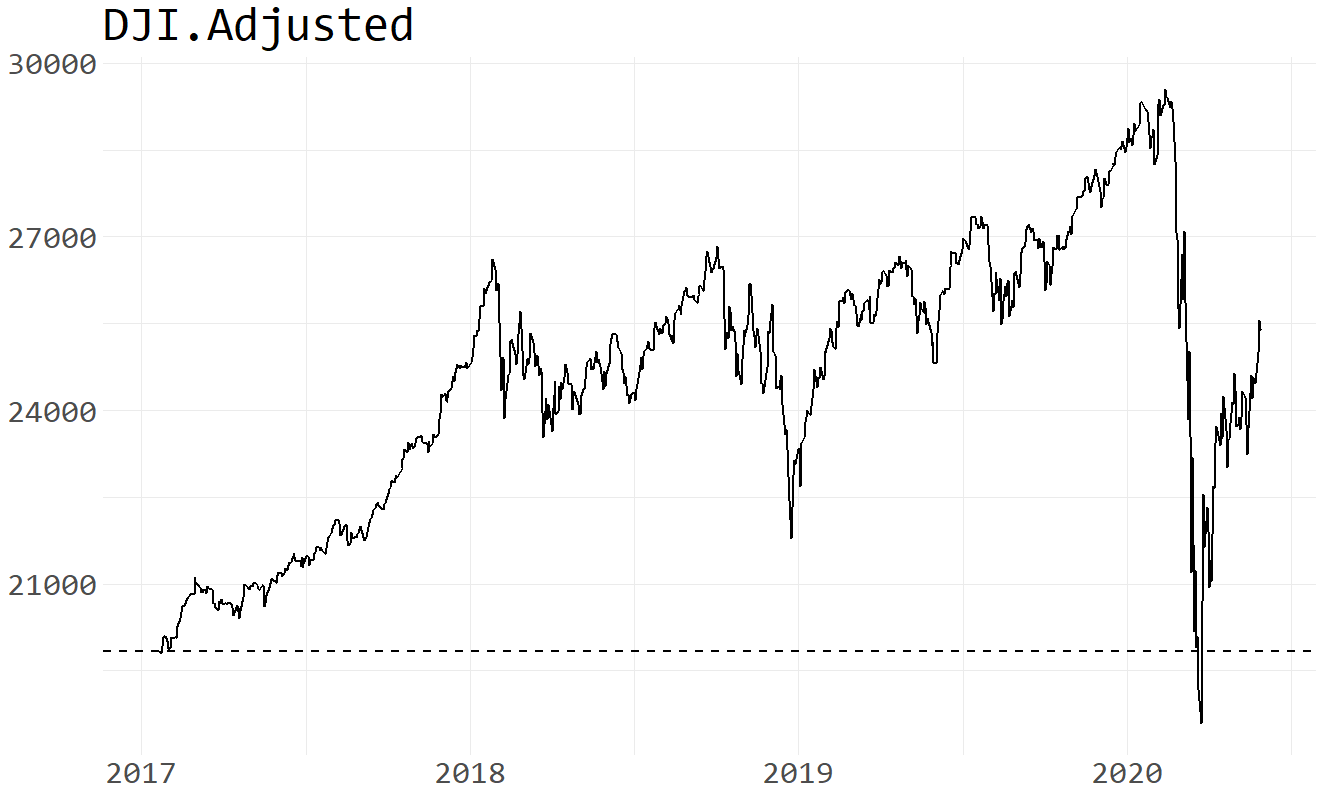
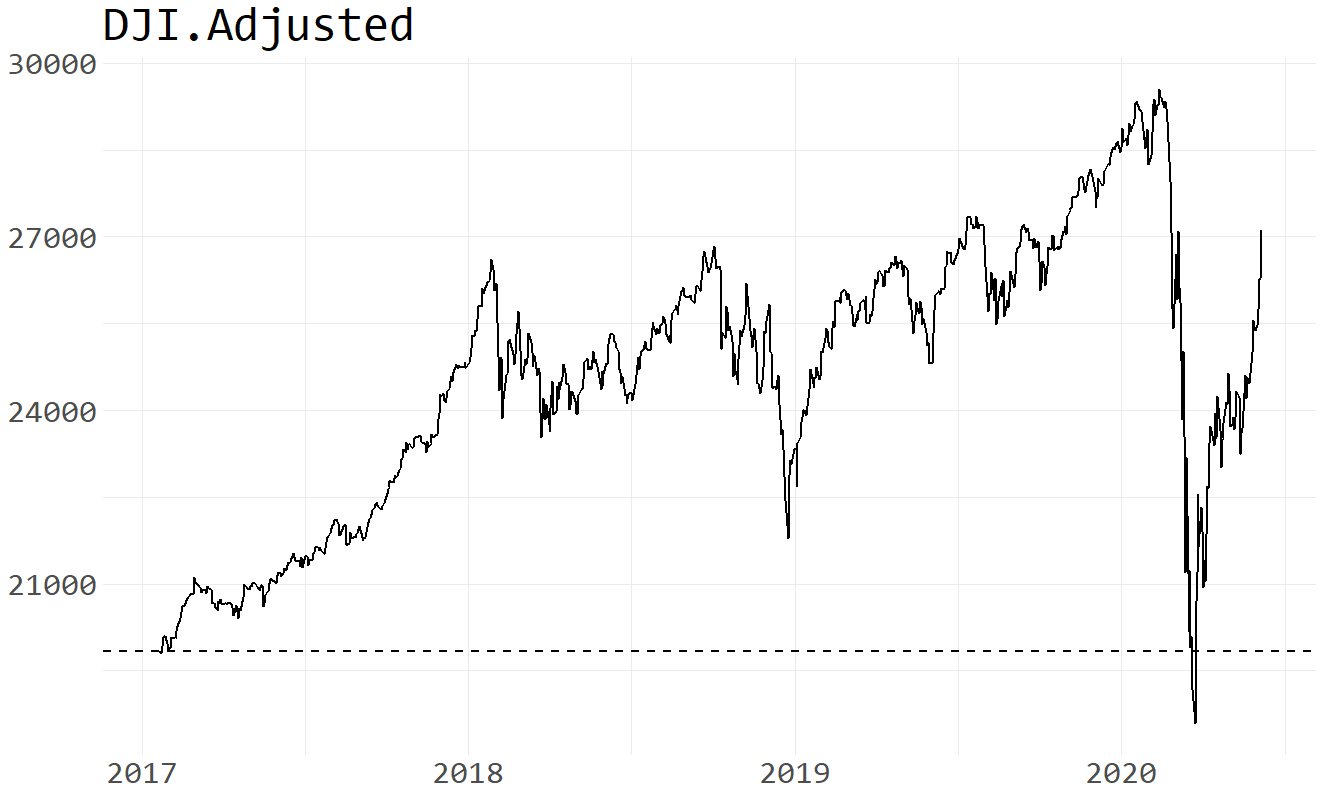
Add files via upload

diff --git a/thedowjonesindustrialaverage.md b/thedowjonesindustrialaverage.md
@@ -1,7 +1,7 @@
 The Dow Jones Industrial Average
 ================
 <https://am-consulting.co.jp> , <https://twitter.com/amc_corporation>
-2020-05-30 07:20:17 JST
+2020-06-06 10:30:51 JST
 
     $quantmod
     [1]  0  4 17
@@ -10,7 +10,7 @@ The Dow Jones Industrial Average
     [1] 0 8 5
     
     $ggplot2
-    [1] 3 3 0
+    [1] 3 3 1
     
     $tidyr
     [1] 1 1 0
@@ -56,12 +56,12 @@ tail(dji0)
 
 ``` 
            Date DJI.Open DJI.High  DJI.Low DJI.Close DJI.Volume DJI.Adjusted
-3370 2020-05-21 24564.27 24718.46 24370.88  24474.12  346770000     24474.12
-3371 2020-05-22 24461.98 24481.64 24294.07  24465.16  255660000     24465.16
-3372 2020-05-26 24781.84 25176.42 24781.84  24995.11  424380000     24995.11
-3373 2020-05-27 25298.63 25551.56 25009.87  25548.27  411230000     25548.27
-3374 2020-05-28 25697.36 25758.79 25358.73  25400.64  377800000     25400.64
-3375 2020-05-29 25324.15 25482.80 25031.67  25383.11  545144765     25383.11
+3375 2020-05-29 25324.15 25482.80 25031.67  25383.11  527620000     25383.11
+3376 2020-06-01 25342.99 25508.83 25220.66  25475.02  338310000     25475.02
+3377 2020-06-02 25582.52 25743.13 25523.74  25742.65  352610000     25742.65
+3378 2020-06-03 25906.88 26337.75 25906.88  26269.89  398790000     26269.89
+3379 2020-06-04 26226.49 26384.10 26082.31  26281.82  372190000     26281.82
+3380 2020-06-05 26836.80 27338.30 26836.80  27110.98  542310000     27110.98
 ```
 
 ## Adjusted price
@@ -73,12 +73,12 @@ tail(dji)
 
 ``` 
            Date DJI.Adjusted
-3370 2020-05-21     24474.12
-3371 2020-05-22     24465.16
-3372 2020-05-26     24995.11
-3373 2020-05-27     25548.27
-3374 2020-05-28     25400.64
 3375 2020-05-29     25383.11
+3376 2020-06-01     25475.02
+3377 2020-06-02     25742.65
+3378 2020-06-03     26269.89
+3379 2020-06-04     26281.82
+3380 2020-06-05     27110.98
 ```
 
 ## Highest price
@@ -167,14 +167,14 @@ trump %>% {rbind(head(.,1),tail(.,1))}
 ``` 
           Date DJI.Adjusted
 1   2017-01-20     19827.25
-845 2020-05-29     25383.11
+850 2020-06-05     27110.98
 ```
 
 ``` r
 trump[,2] %>% {(tail(.,1)/head(.,1)-1)*100} %>% signif(7) %>% paste0('%')
 ```
 
-    [1] "28.02133%"
+    [1] "36.73596%"
 
 #### Percentage change from November 9, 2016
 
@@ -186,14 +186,14 @@ trump20161109
 ``` 
         Date DJI.Adjusted
 1 2016-11-09     18589.69
-2 2020-05-29     25383.11
+2 2020-06-05     27110.98
 ```
 
 ``` r
 trump20161109[,2] %>% {(tail(.,1)/head(.,1)-1)*100} %>% signif(7) %>% paste0('%')
 ```
 
-    [1] "36.54402%"
+    [1] "45.8388%"
 
 ## Compare difference between Obama and Trump
 
@@ -282,12 +282,12 @@ tail(trump)
 
 ``` 
            Date DJI.Adjusted change up down even
-3370 2020-05-21     24474.12  -0.41  0    1    0
-3371 2020-05-22     24465.16  -0.04  0    1    0
-3372 2020-05-26     24995.11   2.17  1    0    0
-3373 2020-05-27     25548.27   2.21  1    0    0
-3374 2020-05-28     25400.64  -0.58  0    1    0
 3375 2020-05-29     25383.11  -0.07  0    1    0
+3376 2020-06-01     25475.02   0.36  1    0    0
+3377 2020-06-02     25742.65   1.05  1    0    0
+3378 2020-06-03     26269.89   2.05  1    0    0
+3379 2020-06-04     26281.82   0.05  1    0    0
+3380 2020-06-05     27110.98   3.15  1    0    0
 ```
 
 ###### Highest appreciation rate
@@ -367,8 +367,8 @@ tableObservation
 ``` 
         Up Down Total
 Obama 1080  925  2005
-Trump  468  371   839
-Total 1548 1296  2844
+Trump  473  371   844
+Total 1553 1296  2849
 ```
 
 ``` r
@@ -377,9 +377,9 @@ tableExpectation
 
 ``` 
         Up Down Total
-Obama 1091  914  2005
-Trump  457  382   839
-Total 1548 1296  2844
+Obama 1093  912  2005
+Trump  460  384   844
+Total 1553 1296  2849
 ```
 
 ``` r
@@ -391,7 +391,7 @@ cross_data0
   POTUS Change frequency
 1 Obama     Up      1080
 2 Obama   Down       925
-3 Trump     Up       468
+3 Trump     Up       473
 4 Trump   Down       371
 ```
 
@@ -404,7 +404,7 @@ cross_data
        Change
 POTUS   Down   Up
   Obama  925 1080
-  Trump  371  468
+  Trump  371  473
 ```
 
 ``` r
@@ -416,7 +416,7 @@ chisq.test(cross_data,correct = F)
     Pearson's Chi-squared test
 
 data:  cross_data
-X-squared = 0.87484, df = 1, p-value = 0.3496
+X-squared = 1.1356, df = 1, p-value = 0.2866
 ```
 
 -----
